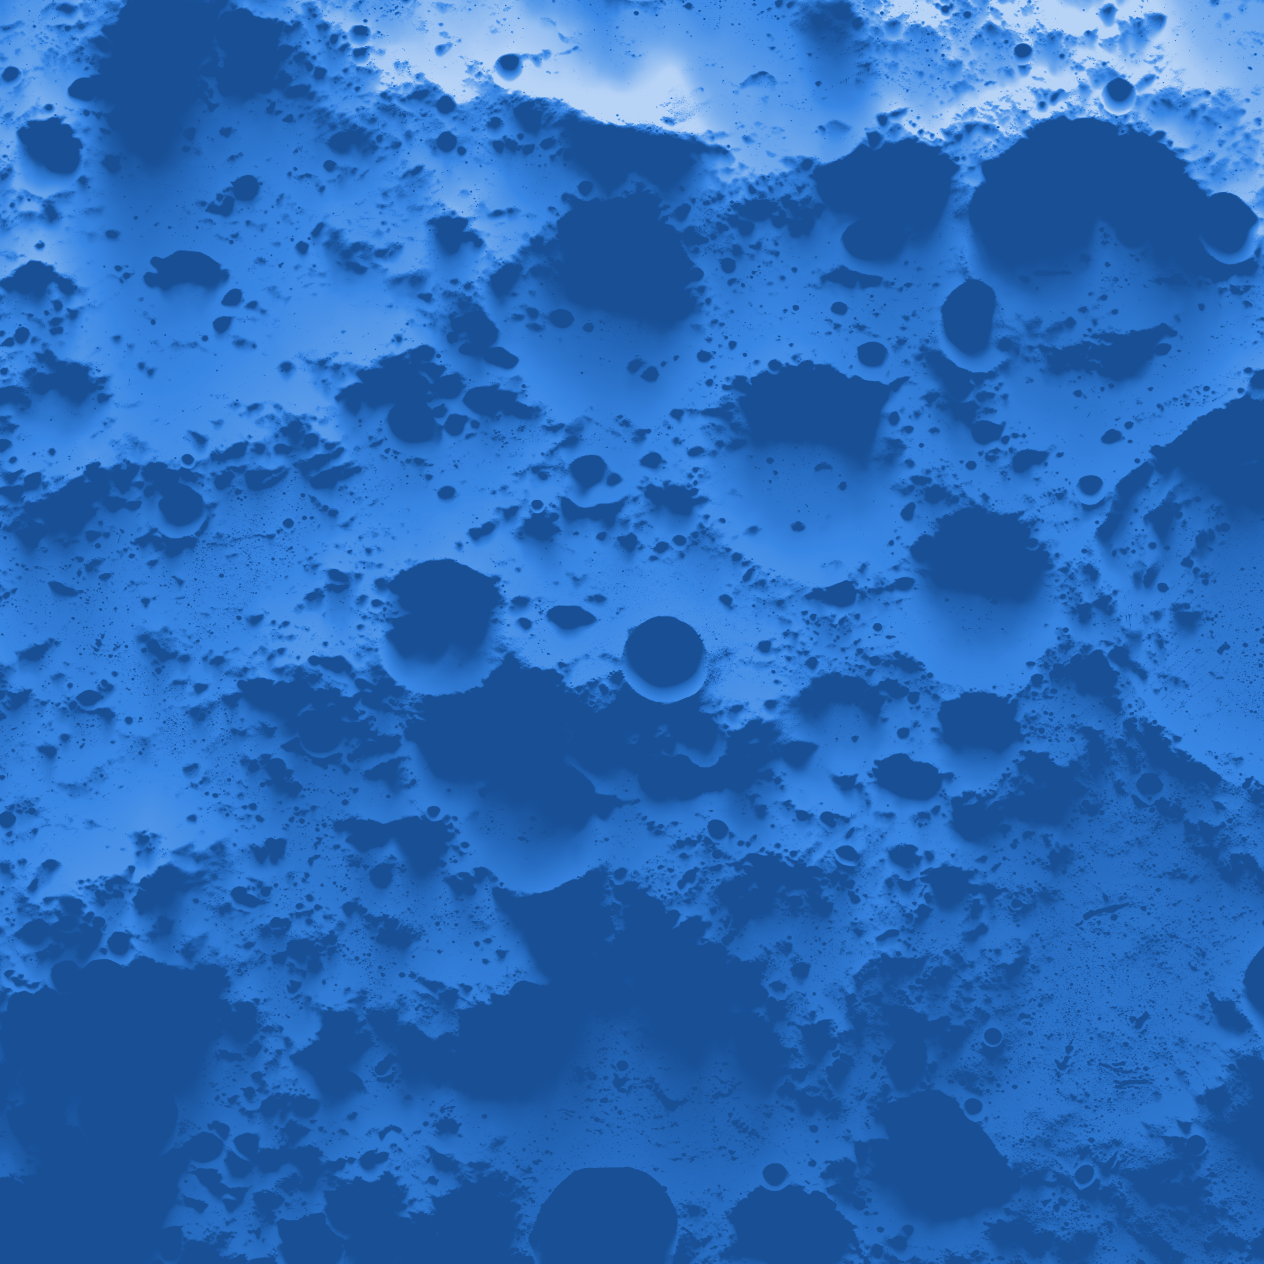
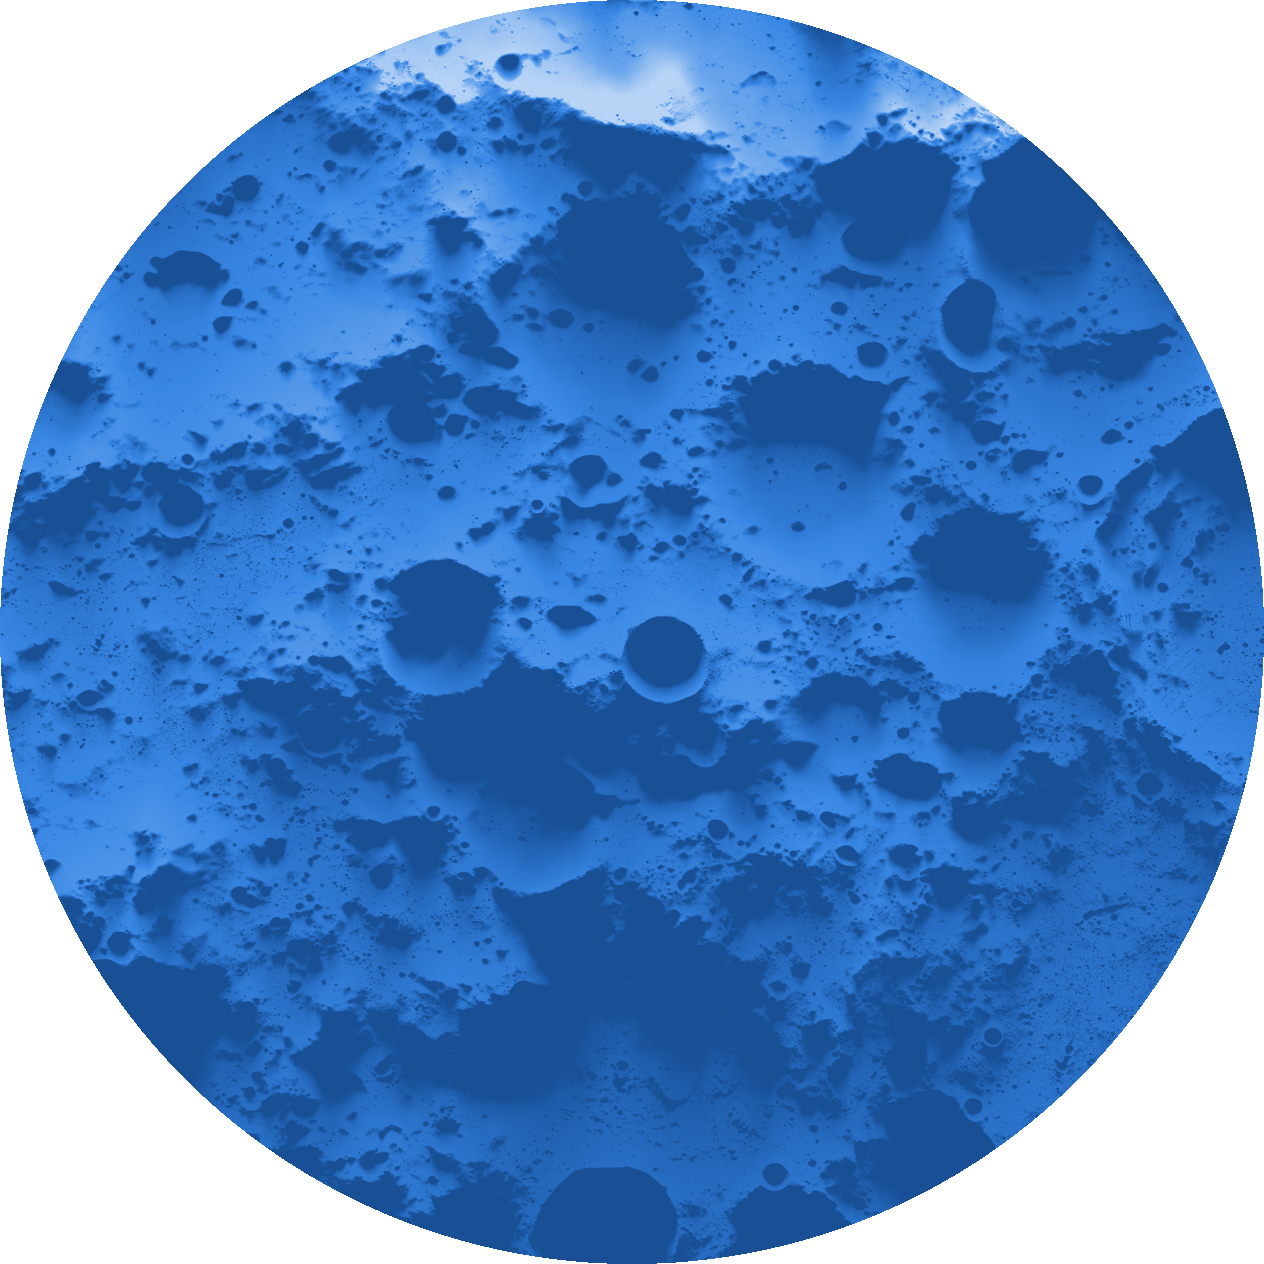
Extend the Layers to 65°S with PGDA's wider maps
The first version drew only PGDA's 85°S map: a disc of 152 km around the pole on a map that reaches 60°S
(931 km). PGDA also publishes each map to 75°S and 65°S, so each layer now stacks three images, finest on
top, at 1920, 960 and 240 m per pixel: about 2 MB per layer, and 770 km of reach.

- Each image is cut to the disc that ends at its latitude, so the layer is a disc, not a square whose
  corners leave the map.
- Each layer has its own translucent pane and opaque images, so the stack does not show through itself.
- The map's credit line adds NASA PGDA while a layer is shown.
- A test checks that every image the map requests exists, is a disc, and has the bounds the map uses.

diff --git a/src/moon_view/polar_map.js b/src/moon_view/polar_map.js
@@ -41,19 +41,22 @@ const polarMap = (() => {
   }
 
   // Layers (task A8): the NASA PGDA average Sun and Earth visibility maps, rendered by scripts/render_overlays.py into
-  // static/overlays/ and reaching 85°S. Their pane sits above the photos (tiles: 200) and under the Site Neighborhood
-  // cells (overlays: 400) and the markers (600).
-  const LAYER_M = 151740;
+  // static/overlays/. Each map is three discs, to 65°S, 75°S and 85°S, coarse to fine, stacked so the finer one
+  // hides the coarser: the layer reaches 65°S and is sharpest near the pole. The pane, not the images, is
+  // translucent, so the stack does not show through itself. Panes sit above the photos (tiles: 200) and under the
+  // Site Neighborhood cells (overlays: 400) and the markers (600).
+  const LAYER_EXTENTS = [["65s", 770400], ["75s", 457440], ["85s", 151740]];  // [file suffix, disc radius in m]
   function drawLayers(state, data) {
     const m = state.map, map = m.leaflet, wanted = new Set(data.overlays || []);
-    if (!m.layers) {
-      m.layers = {};
-      map.createPane("layers").style.zIndex = 350;
-    }
-    ["sun", "earth"].forEach(name => {
+    m.layers = m.layers || {};
+    state.root.classList.toggle("has-layers", wanted.size > 0);
+    ["sun", "earth"].forEach((name, i) => {
       if (wanted.has(name) && !m.layers[name]) {
-        m.layers[name] = L.Proj.imageOverlay(`app/static/overlays/${name}_85s.png`,
-          L.bounds([-LAYER_M, -LAYER_M], [LAYER_M, LAYER_M]), { pane: "layers", opacity: 0.75 }).addTo(map);
+        const pane = `layer-${name}`;
+        if (!map.getPane(pane)) Object.assign(map.createPane(pane).style, { zIndex: 350 + i, opacity: 0.75 });
+        m.layers[name] = L.layerGroup(LAYER_EXTENTS.map(([extent, reach]) => L.Proj.imageOverlay(
+          `app/static/overlays/${name}_${extent}.png`, L.bounds([-reach, -reach], [reach, reach]), { pane })))
+          .addTo(map);
       } else if (!wanted.has(name) && m.layers[name]) {
         m.layers[name].remove();
         delete m.layers[name];

diff --git a/src/moon_view/view.css b/src/moon_view/view.css
@@ -20,6 +20,7 @@
 .layers button.active { background: #e66b27; border-color: #e66b27; color: #fff; }
 .layers button.fullscreen { margin-left: 8px; }
 .credit { bottom: 14px; right: 18px; font-size: 0.7rem; opacity: 0.6; }
+.moon-view:not(.has-layers) .layers-credit { display: none; }  /* credited while a layer is shown */
 /* Full screen: the view covers the monitor and the app's panel is hidden, so show the selected site here. */
 .moon-view:fullscreen { height: 100vh; }
 .info { display: none; top: 14px; left: 18px; max-width: min(460px, 60%); background: rgba(10, 12, 18, 0.72);

diff --git a/scripts/render_overlays.py b/scripts/render_overlays.py
@@ -2,11 +2,14 @@
 
 Usage: python -m scripts.render_overlays [sun] [earth]   (both by default)
 
-The maps (https://pgda.gsfc.nasa.gov/products/69, Mazarico et al. 2011) give, per 60 m pixel from 85°S to the
-pole, the share of hourly timesteps over 18.6 years with any part of the Sun, or of Earth, above the terrain, at
-ground level. For each map this writes static/overlays/<name>_85s.png (240 m pixels, colored with the ramps of
-src/colors.py, transparent where the map has no data) and <name>_85s.json (polar stereographic bounds, source and
-ramp) for the polar map (docs/UI_OVERHAUL.md, task A8) and the Layers panel (B7).
+The maps (https://pgda.gsfc.nasa.gov/products/69, Mazarico et al. 2011) give the share of hourly timesteps over
+18.6 years with any part of the Sun, or of Earth, above the terrain, at ground level. PGDA publishes each one three
+times: to 65°S at 240 m per pixel, to 75°S at 120 m and to 85°S at 60 m. For each map and extent this writes
+static/overlays/<name>_<extent>.png (coarser: 1920, 960 and 240 m per pixel, colored with the ramps of src/colors.py)
+and a .json with its polar stereographic bounds, source and ramp. Each map is a square around the pole; the image
+keeps the disc inside it, which ends at the extent's latitude, and is transparent elsewhere. The polar map stacks
+the three discs, finest on top (docs/UI_OVERHAUL.md, task A8), so the layer reaches 65°S and is sharpest near the
+pole, where the Catalog Sites are. A layer weighs about 2 MB.
 """
 import json
 import sys
@@ -22,9 +25,10 @@ from src.colors import EARTH_RAMP, SUN_RAMP, ramp_rgb
 from src.terrain import GDAL_ENV, _read_chunk
 
 BASE_URL = "https://pgda.gsfc.nasa.gov/data/MoonIllumination/"
-MAPS = {"sun": ("AVGVISIB_85S_060M_201608.TIF", SUN_RAMP), "earth": ("AVGVISIB_85S_060M_201608_EARTH.TIF", EARTH_RAMP)}
+MAPS = {"sun": ("", SUN_RAMP), "earth": ("_EARTH", EARTH_RAMP)}  # name: (file suffix, ramp)
 OUT = Path(__file__).resolve().parent.parent / "static" / "overlays"
-DECIMATION = 4  # 60 m pixels -> 240 m
+# extent: (PGDA file part, decimation), coarse to fine as the polar map stacks them
+EXTENTS = {"65s": ("65S_240M", 8), "75s": ("75S_120M", 8), "85s": ("85S_060M", 4)}
 NO_DATA = 255  # palette index left transparent; indices 0-254 run along the ramp
 
 
@@ -38,15 +42,17 @@ def colorize(fraction, ramp):
     return image
 
 
-def render(name):
-    file, ramp = MAPS[name]
-    with rasterio.Env(**GDAL_ENV), rasterio.open(BASE_URL + file) as src:
-        shape = (src.height // DECIMATION, src.width // DECIMATION)
+def render(name, extent):
+    (suffix, ramp), (part, decimation) = MAPS[name], EXTENTS[extent]
+    with rasterio.Env(**GDAL_ENV), rasterio.open(f"{BASE_URL}AVGVISIB_{part}_201608{suffix}.TIF") as src:
+        shape = (src.height // decimation, src.width // decimation)
         fraction = _read_chunk(src, Window(0, 0, src.width, src.height), shape,
                                resampling=Resampling.average) * src.scales[0]
         bounds, crs = src.bounds, src.crs.to_proj4()
+    rows, cols = np.indices(fraction.shape) + 0.5  # pixel centers
+    fraction[np.hypot(rows - shape[0] / 2, cols - shape[1] / 2) > min(shape) / 2] = np.ma.masked
     OUT.mkdir(parents=True, exist_ok=True)
-    image = OUT / f"{name}_85s.png"
+    image = OUT / f"{name}_{extent}.png"
     colorize(fraction, ramp).save(image, optimize=True, transparency=NO_DATA)
     meta = {
         "image": f"app/static/overlays/{image.name}",
@@ -63,4 +69,5 @@ def render(name):
 
 if __name__ == "__main__":
     for name in sys.argv[1:] or MAPS:
-        render(name)
+        for extent in EXTENTS:
+            render(name, extent)

diff --git a/tests/test_overlays.py b/tests/test_overlays.py
@@ -1,6 +1,10 @@
-import numpy as np
+import json
+from pathlib import Path
 
-from scripts.render_overlays import EARTH_RAMP, SUN_RAMP, colorize
+import numpy as np
+from PIL import Image
+
+from scripts.render_overlays import EARTH_RAMP, EXTENTS, MAPS, NO_DATA, OUT, SUN_RAMP, colorize
 
 
 def test_colorize_follows_the_ramp_and_hides_missing_data():
@@ -9,3 +13,18 @@ def test_colorize_follows_the_ramp_and_hides_missing_data():
         rgba = np.asarray(colorize(fraction, ramp).convert("RGBA"))
         assert ["#%02x%02x%02x" % tuple(px[:3]) for px in rgba[0, :3]] == [ramp[0][1], ramp[2][1], ramp[-1][1]]
         assert rgba[0, :, 3].tolist() == [255, 255, 255, 0]
+
+
+def test_the_polar_map_places_every_layer_disc_at_its_bounds():
+    js = (Path(__file__).resolve().parent.parent / "src" / "moon_view" / "polar_map.js").read_text(encoding="utf-8")
+    for name in MAPS:
+        for extent in EXTENTS:
+            meta = json.loads((OUT / f"{name}_{extent}.json").read_text(encoding="utf-8"))
+            west, south, east, north = meta["bounds_m"]
+            assert (west, south, north) == (-east, -east, east)  # a square centered on the pole
+            assert f'["{extent}", {east:.0f}]' in js
+            image = Image.open(OUT / f"{name}_{extent}.png")
+            width, height = image.size
+            # A disc: data at the center, transparent in the corners, beyond the extent's latitude.
+            assert image.getpixel((width // 2, height // 2)) != NO_DATA
+            assert image.getpixel((0, 0)) == image.getpixel((width - 1, height - 1)) == NO_DATA

diff --git a/src/panels/layers.py b/src/panels/layers.py
@@ -5,7 +5,7 @@ from src.colors import EARTH_RAMP, SUN_RAMP, css_gradient
 from src.panels import texts
 from src.panels.common import OVERLAYS, VIEW_CHOICE, VIEWS
 
-# name: (label, ramp, explanation). The images are static/overlays/<name>_85s.png (scripts/render_overlays.py).
+# name: (label, ramp, explanation). The images are static/overlays/<name>_<extent>.png (scripts/render_overlays.py).
 LAYERS = {"sun": ("Sunlight", SUN_RAMP, texts.SUN_LAYER), "earth": ("Earth visibility", EARTH_RAMP, texts.EARTH_LAYER)}
 
 
@@ -19,8 +19,8 @@ def toggle(name):
 
 def render():
     st.markdown("### Layers")
-    st.caption("NASA Goddard maps over the south polar map, from 85°S to the pole. They stay on while you use the "
-               "other panels.")
+    st.caption("NASA Goddard maps over the south polar map, from 65°S to the pole, sharpest near the pole. NASA "
+               "publishes them only for the polar regions. They stay on while you use the other panels.")
     shown = st.session_state.get(OVERLAYS, ())
     for name, (label, ramp, text) in LAYERS.items():
         with st.container(border=True):

diff --git a/src/moon_view/__init__.py b/src/moon_view/__init__.py
@@ -31,7 +31,8 @@ _HTML = """
   <div class="overlay status" data-for="globe"></div>
   <div class="overlay status" data-for="map"></div>
   <div class="overlay credit" data-for="globe">Imagery: LRO WAC · Elevation: LOLA · NASA Moon Trek</div>
-  <div class="overlay credit" data-for="map">Photos: LROC NAC and WAC · Relief: LOLA · NASA Moon Trek</div>
+  <div class="overlay credit" data-for="map">Photos: LROC NAC and WAC · Relief: LOLA · NASA Moon Trek
+    <span class="layers-credit">· Layers: NASA PGDA</span></div>
 </div>
 """
 

diff --git a/docs/UI_OVERHAUL.md b/docs/UI_OVERHAUL.md
@@ -93,9 +93,12 @@ precise for mission planners. Terms follow [`GLOSSARY.md`](../GLOSSARY.md); the 
 - **Done: A8 and B7.** The rail has a Layers panel with two switches, Sunlight and Earth visibility, each with its
   legend and Renata's explanation (`texts.SUN_LAYER`, `texts.EARTH_LAYER`). The choice lives in
   `st.session_state["overlays"]`, so layers stay on in the other panels, and showing one switches to the map.
-  `drawLayers()` in `polar_map.js` places `static/overlays/<name>_85s.png` over ±151740 m in a pane between the
-  photos and the Site Neighborhood cells. Both images come from `python -m scripts.render_overlays`, with the
-  ramps of `src/colors.py` (the Earth one replaces NASA's colored tiles, so both layers read the same way).
+  `drawLayers()` in `polar_map.js` stacks three images per layer, finest on top, in a translucent pane between
+  the photos and the Site Neighborhood cells: `static/overlays/<name>_65s.png`, `_75s` and `_85s`, at 1920, 960
+  and 240 m per pixel, from PGDA's maps to 65°S, 75°S and 85°S, each cut to the disc that ends at its latitude.
+  A layer weighs about 2 MB. NASA publishes these maps only from 65°S, so the map's last 5° to 60°S have no layer.
+  The map credits NASA PGDA while a layer is shown. The images come from `python -m scripts.render_overlays`, with
+  the ramps of `src/colors.py` (the Earth one replaces NASA's colored tiles, so both layers read the same way).
 - **Stale modules after a deploy:** Streamlit drops changed modules only for the browser sessions that saw the
   change, and Streamlit Cloud updates the code without restarting Python, so new sessions could mix a new
   `app.py` with old `src` modules (the ImportError after PR #24). `app.py` now drops every `src` module when a

diff --git a/README.md b/README.md
@@ -116,7 +116,7 @@ lunav_one/
 │   └── render_overlays.py       # Prepares the NASA-derived Layers images
 ├── static/
 │   ├── icons/                  # SVG interface icons
-│   └── overlays/               # Prepared Sun visibility image and metadata
+│   └── overlays/               # Prepared Sun and Earth visibility images and metadata
 ├── data/
 │   └── catalog/                 # Pre-computed ephemerides and terrain horizons
 │       ├── manifest.json        # Coordinates, date coverage and terrain source
